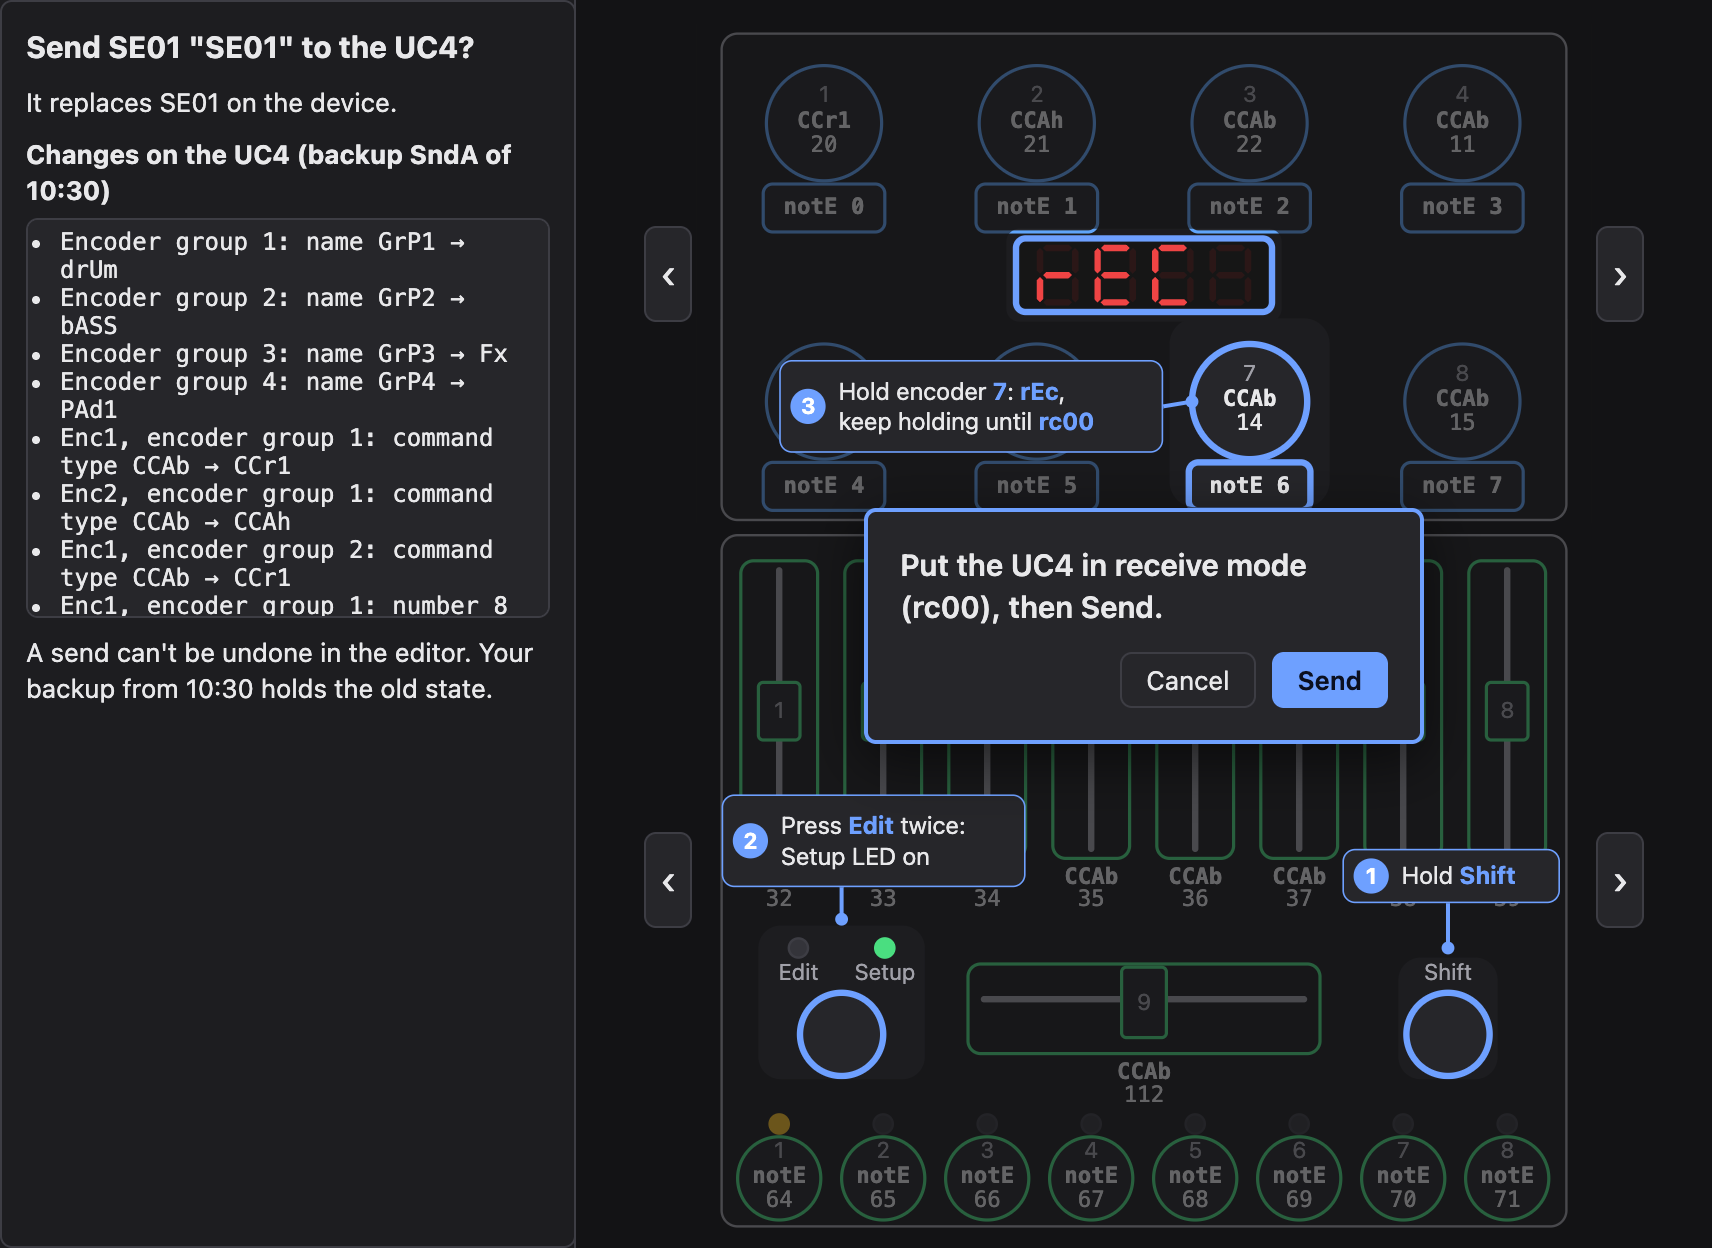
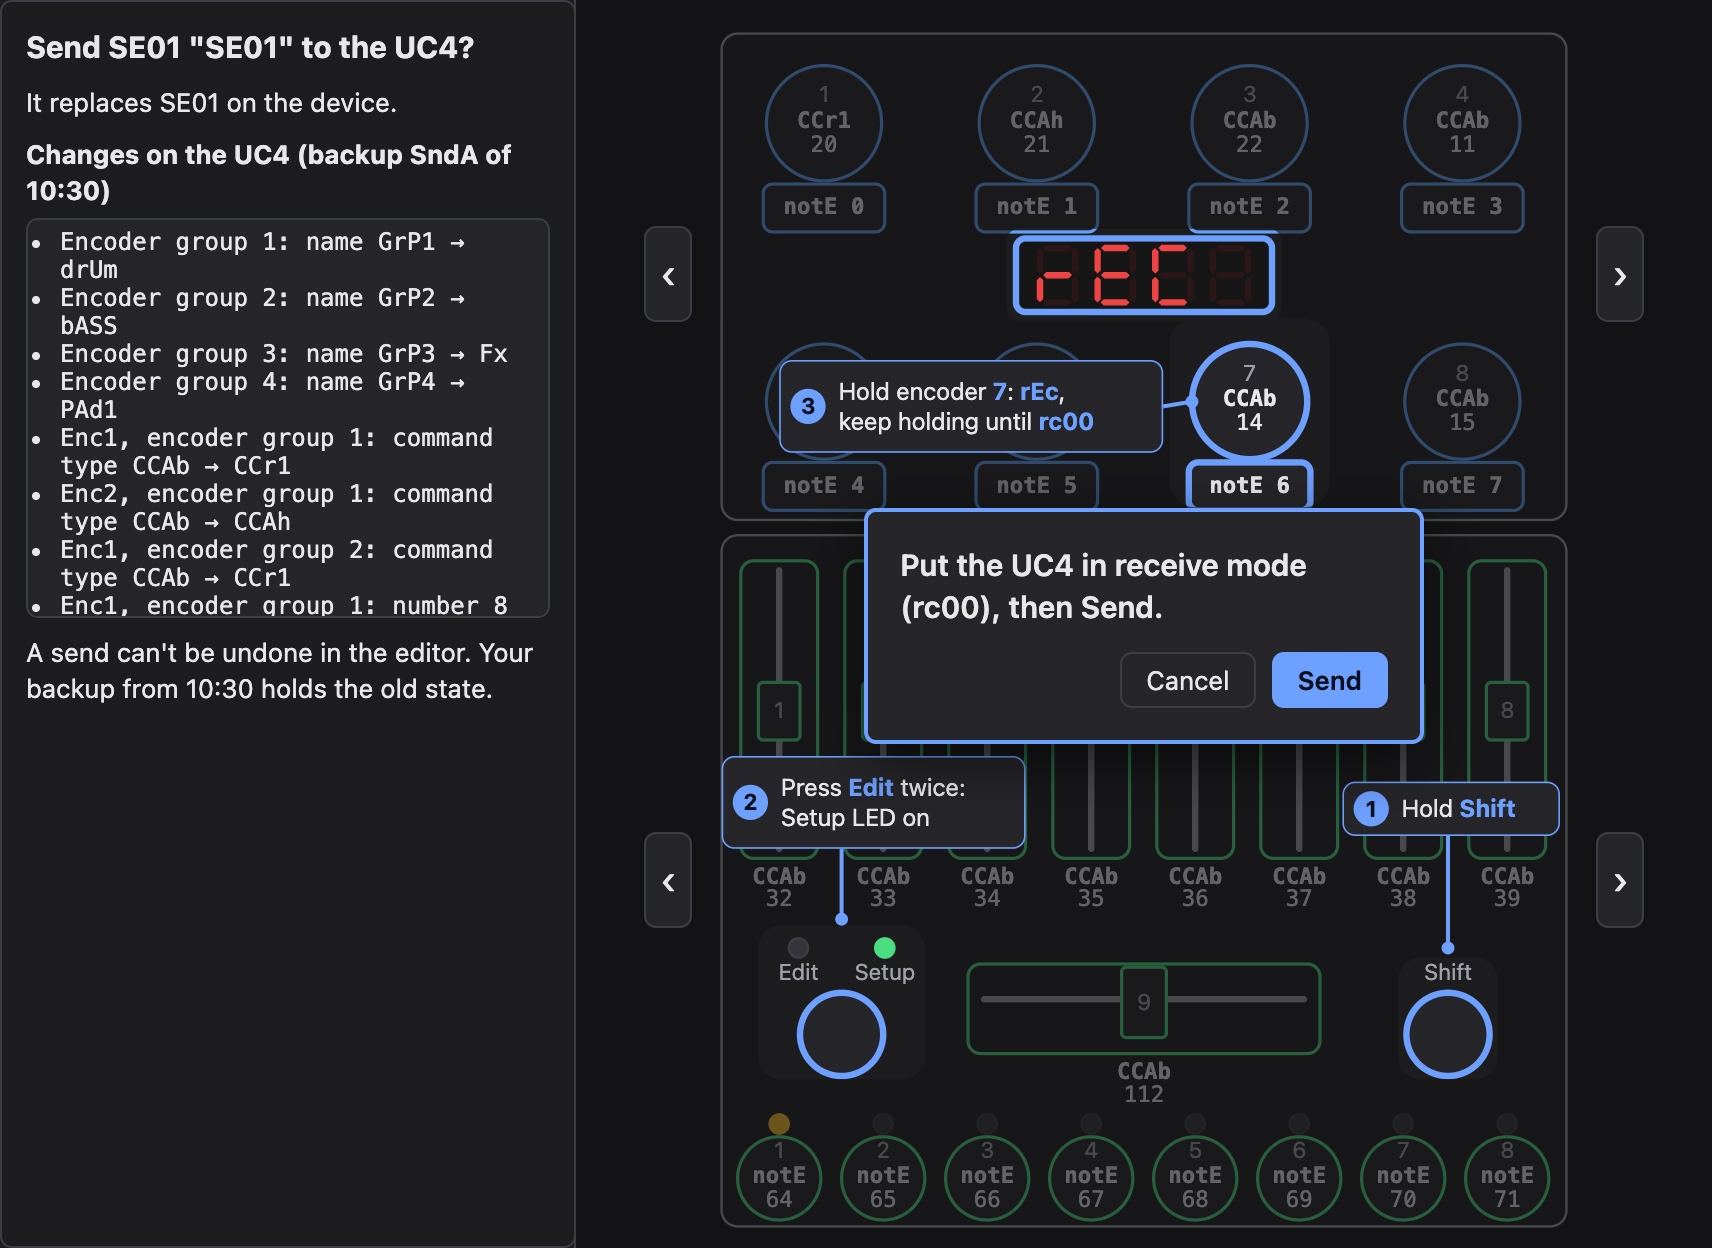
docs(guide): the six areas of the editor with an overview picture (0012 step 2)

Changed region(s): [[0.4025, 0.5938, 0.5882, 0.7188], [0.7739, 0.625, 0.9287, 0.7188]]

diff --git a/tools/guide-shots/markers.ts b/tools/guide-shots/markers.ts
@@ -9,8 +9,8 @@ export interface Marker {
   n: number;
   /** One box around all matched elements together (for example a label and its select), not one box each. */
   union?: boolean;
-  /** Where the number sits: left of the outline (default), or straddling its top edge at the right end when there is no room on the left. */
-  dot?: 'left' | 'top-right';
+  /** Where the number sits: left of the outline (default), straddling its top edge at the right end when there is no room on the left, inside the outline in its bottom-left or bottom-right corner, or in its middle (wide bars and large areas whose neighbours touch them). */
+  dot?: 'left' | 'top-right' | 'bottom-left' | 'bottom-right' | 'middle';
 }
 
 export interface MarkerOptions {
@@ -57,8 +57,10 @@ export async function addMarkers(page: Page, markers: Marker[], options: MarkerO
         // Left of the outline, centred; above it when there is no room on the left.
         const fitsLeft = left - PAD - GAP - DOT >= 0;
         const corner = m.dot === 'top-right';
-        const dx = corner ? right + PAD - DOT - 4 : fitsLeft ? left - PAD - GAP - DOT : left - PAD;
-        const dy = corner ? top - PAD - DOT / 2 : fitsLeft ? top + h / 2 - DOT / 2 : top - PAD - GAP - DOT;
+        const inside = m.dot === 'bottom-left' || m.dot === 'bottom-right';
+        const mid = m.dot === 'middle';
+        const dx = mid ? left + w / 2 - DOT / 2 : inside ? (m.dot === 'bottom-left' ? left : right - DOT) : corner ? right + PAD - DOT - 4 : fitsLeft ? left - PAD - GAP - DOT : left - PAD;
+        const dy = mid ? top + h / 2 - DOT / 2 : inside ? bottom - DOT - 14 : corner ? top - PAD - DOT / 2 : fitsLeft ? top + h / 2 - DOT / 2 : top - PAD - GAP - DOT;
         const dot = document.createElement('div');
         dot.setAttribute('data-guide-box', '');
         dot.textContent = String(m.n);

diff --git a/tools/guide-shots/rig.ts b/tools/guide-shots/rig.ts
@@ -3,6 +3,7 @@
 import { chromium, type Browser, type Page } from 'playwright';
 import { readFileSync } from 'node:fs';
 import { fileURLToPath } from 'node:url';
+import { TOUR_SEEN_KEY } from '../../src/app/tour.ts';
 
 // 5174 by default; GUIDE_SHOTS_PORT picks another when something else holds it. Never 5173 (the architect's dev server).
 export const PORT = Number(process.env.GUIDE_SHOTS_PORT ?? 5174);
@@ -51,6 +52,8 @@ export async function newShotPage(browser: Browser): Promise<Page> {
   });
   const page = await context.newPage();
   await page.addInitScript(installMidiStub);
+  // The first-run tour (plan 0012) would dim every shot: the fresh profile counts as having seen it (key from src/app/tour.ts).
+  await page.addInitScript((key) => { try { localStorage.setItem(key, '1'); } catch { /* shots do not need it */ } }, TOUR_SEEN_KEY);
   // The clock stands still, so times in the editor (a kept dump's time) are the same in every run.
   await page.clock.setFixedTime(new Date('2026-11-19T10:30:00Z'));
   await page.goto(BASE);

diff --git a/tools/guide-shots/editor-areas.ts b/tools/guide-shots/editor-areas.ts
@@ -1,0 +1,18 @@
+// The six areas of the editor, numbered 1–6 in the order of the guide page (src/app/profile/uc4Tour.ts, TOUR_AREAS).
+import type { Browser } from 'playwright';
+import { newShotPage, save } from './rig.ts';
+import { addMarkers, type Marker } from './markers.ts';
+import { TOUR_AREAS } from '../../src/app/profile/uc4Tour.ts';
+
+// Where each number sits: the areas touch each other, so most numbers stand inside their area, in an empty corner.
+const DOTS: Record<string, Marker['dot']> = {
+  toolbar: 'middle', connections: 'bottom-left', properties: 'bottom-left', device: 'bottom-left', setups: 'bottom-right', help: 'middle',
+};
+
+export const name = 'editor-areas';
+
+export async function run(browser: Browser): Promise<void> {
+  const page = await newShotPage(browser);
+  await addMarkers(page, TOUR_AREAS.map((a, i) => ({ selector: a.selector as string, n: i + 1, dot: DOTS[a.id] })), { dim: false });
+  await save(page, name);
+}

diff --git a/tests/app/uc4Tour.test.ts b/tests/app/uc4Tour.test.ts
@@ -20,8 +20,7 @@ describe('tour steps', () => {
 });
 
 // Drift test: the guide page "The editor" (plan 0012 step 2, uc4-docs) names every area by its title.
-// Waits for uc4-docs: switch `describe.skip` to `describe` when the page is committed.
-describe.skip('guide page drift (until uc4-docs commits step 2)', () => {
+describe('guide page drift', () => {
   const page = existsSync('docs/guides/editor.md') ? readFileSync('docs/guides/editor.md', 'utf8') : '';
   it.each(TOUR_AREAS.map((a) => a.title))('editor.md mentions "%s"', (title) => {
     expect(page).toContain(title);

diff --git a/docs/guides/editor.md b/docs/guides/editor.md
@@ -8,6 +8,46 @@ changes the UC4 by itself: to put a setup on the UC4 you use
     The **Send** button under the setup list replaces a setup on the UC4. Make a `SndA` backup of all
     18 setups first. [From and to the UC4](device.md) shows how.
 
+## The six areas
+
+The editor window has six areas. The numbers in the picture match the sections below.
+
+![The editor with its six areas numbered: toolbar (1), Connections (2), property panel (3), device view (4), setup list (5), help line (6)](images/editor-areas.png)
+
+### 1. Toolbar
+
+Import opens a configuration (.json) or a dump (.syx) from your computer, and Export saves the library.
+Undo and redo step back and forward through your changes.
+The book opens the user guide; the gear opens Settings. More in [Files](files.md).
+
+### 2. Connections
+
+This column shows whether the UC4 is connected and holds the dumps it sent, with Review, Export and Dismiss.
+It only listens: the editor sends nothing to the UC4 until you press Send. More in
+[Getting started](getting-started.md).
+
+### 3. Property panel
+
+Here you edit the group names and, once you select a control, its properties.
+It shows only the properties that control kind has, in the UC4's own words, such as CCr1 or SnAP.
+More in [Change a property](#change-a-property).
+
+### 4. Device view
+
+The drawn UC4 shows the selected setup. Click a control to edit it.
+The arrows step through the 8 encoder groups and the 8 fader/button groups, each on its own, as on the device.
+More in [The two group selections](#the-two-group-selections).
+
+### 5. Setup list
+
+The 18 setups of the library, named SE01 to SE18 like the UC4's slots. Click one to show it on the device view.
+Rename, copy and paste setups here, and send one to the UC4 with Send. More in [Pick a setup](#pick-a-setup).
+
+### 6. Help line
+
+The line at the bottom says what is under the mouse or in focus.
+It also shows messages, such as a value that was refused and what to do about it.
+
 ## The window
 
 In this guide `Cmd` means the `Cmd` key on a Mac and the `Ctrl` key on Windows and Linux.
@@ -20,19 +60,8 @@ In this guide `Cmd` means the `Cmd` key on a Mac and the `Ctrl` key on Windows a
 3. **A property.** The selected control's properties are listed in the panel on the left. This one is
    the command type.
 
-The window has four parts:
-
-- **Connections** (far left, a narrow strip): the state of the UC4. See
-  [Getting started](getting-started.md).
-- **The property panel** (left): the group you work in, then the selected control.
-- **The device view** (centre): a drawing of the UC4 with the setup shown.
-- **The setup list** (right): the 18 setups of the library.
-
-At the top are **Import…**, **Export**, undo and redo (`↶` `↷`) and Settings (the gear). Files are
-covered in [Files](files.md).
-
-The line at the bottom is the **help line**. Hold the pointer over anything and it says what that
-thing does. It also shows messages, for example when a value was refused.
+The six areas of the window are described in [The six areas](#the-six-areas). Files are covered in
+[Files](files.md).
 
 ## Pick a setup
 
